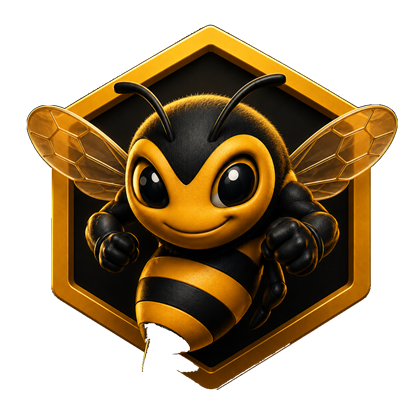
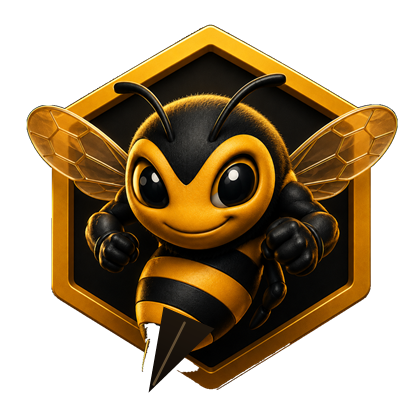
Restore bee stinger, keep lockup tagline, dark login card in light mode; SW v6

Changed region(s): [[0.3405, 0.7119, 0.5262, 0.9286]]

diff --git a/index.html b/index.html
@@ -970,6 +970,21 @@
     color: var(--red); border: 1px solid var(--red);
     border-radius: 8px; font-size: 12px; text-align: center;
   }
+  /* The sign-in card keeps the dark brand treatment even in light mode —
+     the lockup's white lettering needs a dark canvas */
+  [data-theme="light"] .login-card {
+    background: linear-gradient(160deg, #1f1a14 0%, #2b251e 100%);
+    border-color: #f5a623;
+  }
+  [data-theme="light"] .login-card .login-sub,
+  [data-theme="light"] .login-card .login-hint,
+  [data-theme="light"] .login-card .login-field label { color: #a89c87; }
+  [data-theme="light"] .login-card .login-field input {
+    background: #2b251e; color: #f4ede1; border-color: #4d4131;
+  }
+  [data-theme="light"] .login-card .login-tabs { background: #2b251e; }
+  [data-theme="light"] .login-card .login-tab { color: #a89c87; }
+  [data-theme="light"] .login-card .login-tab.active { background: #1f1a14; color: #fcd34d; }
   /* User rows in Manage Users drawer */
   .user-row {
     display: grid; grid-template-columns: 1fr auto; gap: 10px;

diff --git a/sw.js b/sw.js
@@ -1,6 +1,6 @@
 // HIVE service worker — network-first for the page (so deploys show up immediately),
 // cache-first for static assets (icons). Firebase/CDN requests pass through untouched.
-const VERSION = 'hive-v5';
+const VERSION = 'hive-v6';
 
 self.addEventListener('install', () => self.skipWaiting());
 
